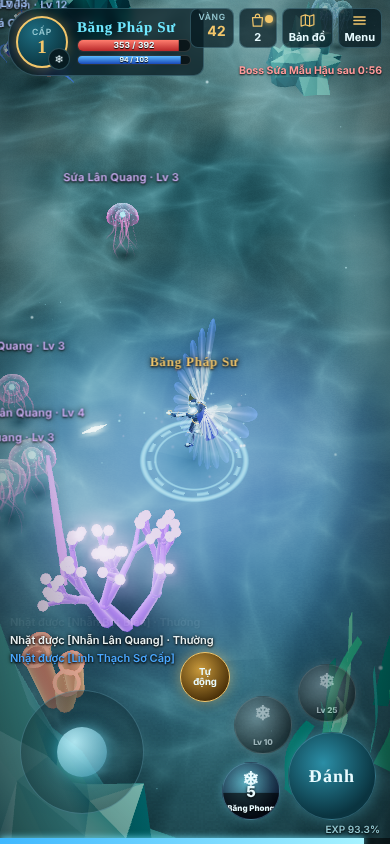
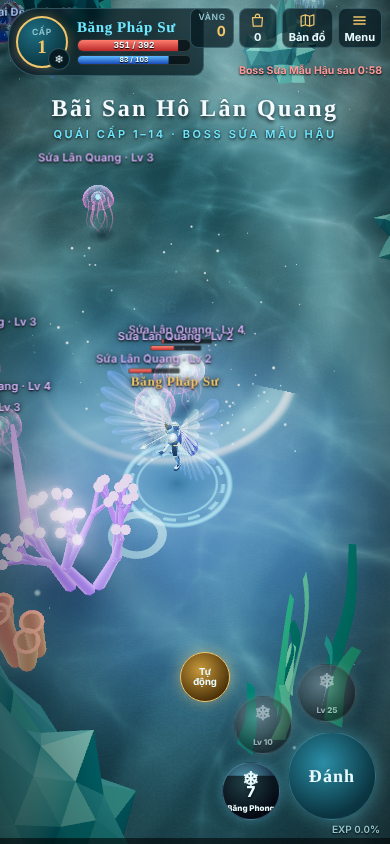
Vực Lam: tap-to-move controls and pathfinding around obstacles
Replaces the joystick with tap/hold-to-move on the sea floor (tap a monster
to attack it) and adds grid A* so the hero walks around rocks and coral
in both manual and auto-hunt modes.

Claude-Session: https://claude.ai/code/session_019JwWWoX9XVnj9TTcGWtfgR

diff --git a/game/demo-day-bien/index.html b/game/demo-day-bien/index.html
@@ -32,7 +32,7 @@ body{background:var(--abyss);color:var(--ink);font-family:var(--ui);overflow:hid
 @keyframes rise{0%{transform:translate(-50%,0) scale(1.35);opacity:1}70%{opacity:1}100%{transform:translate(-50%,-52px) scale(1);opacity:0}}
 
 #hud{position:fixed;inset:0;pointer-events:none}
-#hud button,#joy{pointer-events:auto}
+#hud button{pointer-events:auto}
 button{font-family:var(--ui)}
 button:focus-visible{outline:2px solid var(--cyan);outline-offset:2px}
 .card{position:absolute;top:calc(8px + env(safe-area-inset-top,0px));left:calc(8px + env(safe-area-inset-left,0px));display:flex;gap:9px;align-items:center;padding:7px 12px 7px 7px;background:var(--panel);border:1px solid var(--line);border-radius:30px 10px 10px 30px;backdrop-filter:blur(4px)}
@@ -67,8 +67,6 @@ button:focus-visible{outline:2px solid var(--cyan);outline-offset:2px}
 #banner.show{opacity:1}
 #log{position:absolute;left:calc(10px + env(safe-area-inset-left,0px));bottom:calc(178px + env(safe-area-inset-bottom,0px));width:min(310px,68vw);display:flex;flex-direction:column;gap:3px}
 #log div{font:600 11px/1.35 var(--ui);text-shadow:0 1px 2px #000,0 0 4px #000;transition:opacity .6s}
-#joy{position:absolute;left:calc(20px + env(safe-area-inset-left,0px));bottom:calc(30px + env(safe-area-inset-bottom,0px));width:122px;height:122px;border-radius:50%;background:radial-gradient(circle,rgba(111,231,255,.08),rgba(3,22,28,.5));border:1px solid var(--line);touch-action:none}
-#joyKnob{position:absolute;left:50%;top:50%;width:50px;height:50px;margin:-25px 0 0 -25px;border-radius:50%;background:radial-gradient(circle at 35% 30%,rgba(190,245,255,.9),rgba(60,160,190,.6));box-shadow:0 0 14px rgba(111,231,255,.5)}
 .actions{position:absolute;right:calc(14px + env(safe-area-inset-right,0px));bottom:calc(24px + env(safe-area-inset-bottom,0px));width:212px;height:176px}
 .actions button{position:absolute;border-radius:50%;border:1px solid var(--line);color:var(--ink);font:700 11px var(--ui);cursor:pointer;touch-action:none;display:grid;place-items:center;overflow:hidden;padding:0}
 #bAtk{right:0;bottom:0;width:88px;height:88px;background:radial-gradient(circle at 40% 35%,#2b8ea6,#0a3440 70%);box-shadow:0 0 18px rgba(111,231,255,.35);font:700 18px var(--display);letter-spacing:.06em}
@@ -200,7 +198,6 @@ button:focus-visible{outline:2px solid var(--cyan);outline-offset:2px}
   <div id="zone"><h1 id="zoneName"></h1><p id="zoneSub"></p></div>
   <div id="banner"></div>
   <div id="log"></div>
-  <div id="joy" aria-label="Cần điều khiển di chuyển"><div id="joyKnob"></div></div>
   <div class="actions">
     <button id="bAuto" aria-pressed="true" aria-label="Bật hoặc tắt tự động đánh">Tự<br>động</button>
     <button class="sk" id="sk2"><div class="cd"></div><span class="ic"></span><small></small><span class="cdt"></span></button>
@@ -208,7 +205,7 @@ button:focus-visible{outline:2px solid var(--cyan);outline-offset:2px}
     <button class="sk" id="sk0"><div class="cd"></div><span class="ic"></span><small></small><span class="cdt"></span></button>
     <button id="bAtk" aria-label="Đánh thường">Đánh</button>
   </div>
-  <div class="hint">WASD di chuyển · Space đánh · 1 2 3 kỹ năng · F tự động · I túi đồ · M bản đồ</div>
+  <div class="hint">Chạm/nhấp nền để đi · WASD · Space đánh · 1 2 3 kỹ năng · F tự động · I túi đồ · M bản đồ</div>
   <div class="exp"><i id="expBar"></i><span id="expTxt"></span></div>
 </div>
 
@@ -1193,6 +1190,38 @@ function updateFx(dt) {
 const rockSpots = [[-14, -9, 1.8, 2.6], [14, -12, 2.2, 3.4], [-16, 6, 2.0, 2.2], [16, 4, 1.6, 2.8], [-4, -9, 1.0, 1.4], [5, 2, 0.9, 1.1], [-3, 15, 1.6, 2.4], [11, 16, 2.0, 3.0], [-12, 16, 1.4, 1.8], [2, -6, 0.7, 0.9]];
 const coralSpots = [[-6, -12], [7, -13], [-13, -2], [13, -2], [-11, 12], [12, 11], [-2, 11], [4, 13], [-18, -12], [18, -10], [-6, 3], [8, -1]];
 function collides(x, z, r) { for (const c of colliders) { const dx = x - c.x, dz = z - c.z; if (dx * dx + dz * dz < (c.r + r) ** 2) return true; } return false; }
+// ---------- navigation (grid A* so the hero walks around rocks and coral) ----------
+const NAV = { n: 88, c: 0.5, o: -22, g: null, R: 0.56 };
+function navCell(v) { return clamp(Math.floor((v - NAV.o) / NAV.c), 0, NAV.n - 1); }
+function navX(i) { return NAV.o + (i + 0.5) * NAV.c; }
+function buildNav() { const n = NAV.n; NAV.g = new Uint8Array(n * n);
+  for (let j = 0; j < n; j++) for (let i = 0; i < n; i++) { const x = navX(i), z = navX(j); NAV.g[j * n + i] = Math.hypot(x, z) > 20.8 || collides(x, z, NAV.R) ? 1 : 0; } }
+function navFree(i, j) { return i >= 0 && j >= 0 && i < NAV.n && j < NAV.n && !NAV.g[j * NAV.n + i]; }
+function los(ax, az, bx, bz, r = 0.5) { const d = Math.hypot(bx - ax, bz - az), k = Math.ceil(d / 0.2); for (let s = 1; s <= k; s++) { const f = s / k; if (collides(ax + (bx - ax) * f, az + (bz - az) * f, r)) return false; } return true; }
+function nearestFree(i, j) { if (navFree(i, j)) return [i, j]; for (let r = 1; r < 8; r++) for (let dj = -r; dj <= r; dj++) for (let di = -r; di <= r; di++) if (Math.max(Math.abs(di), Math.abs(dj)) === r && navFree(i + di, j + dj)) return [i + di, j + dj]; return null; }
+function findPath(sx, sz, tx, tz) {
+  if (!NAV.g) return null; const n = NAV.n; const s = nearestFree(navCell(sx), navCell(sz)), t = nearestFree(navCell(tx), navCell(tz)); if (!s || !t) return null;
+  const S0 = s[1] * n + s[0], T0 = t[1] * n + t[0]; const gs = new Float32Array(n * n).fill(1e9), from = new Int32Array(n * n).fill(-1), shut = new Uint8Array(n * n);
+  const heap = [], H = k => { const i = k % n, j = (k / n) | 0, dx = Math.abs(i - t[0]), dz = Math.abs(j - t[1]); return Math.max(dx, dz) + 0.414 * Math.min(dx, dz); };
+  const push = (k, f) => { heap.push([f, k]); let c = heap.length - 1; while (c > 0) { const p = (c - 1) >> 1; if (heap[p][0] <= heap[c][0]) break; [heap[p], heap[c]] = [heap[c], heap[p]]; c = p; } };
+  const pop = () => { const top = heap[0], last = heap.pop(); if (heap.length) { heap[0] = last; let c = 0; for (;;) { const l = 2 * c + 1, r = l + 1; let m = c; if (l < heap.length && heap[l][0] < heap[m][0]) m = l; if (r < heap.length && heap[r][0] < heap[m][0]) m = r; if (m === c) break; [heap[m], heap[c]] = [heap[c], heap[m]]; c = m; } } return top[1]; };
+  gs[S0] = 0; push(S0, H(S0)); let found = false, it = 0;
+  while (heap.length && it++ < 9000) { const k = pop(); if (shut[k]) continue; shut[k] = 1; if (k === T0) { found = true; break; } const i = k % n, j = (k / n) | 0;
+    for (let dj = -1; dj <= 1; dj++) for (let di = -1; di <= 1; di++) { if (!di && !dj) continue; const a = i + di, b = j + dj; if (!navFree(a, b)) continue; if (di && dj && (!navFree(i + di, j) || !navFree(i, j + dj))) continue;
+      const q = b * n + a, g = gs[k] + (di && dj ? 1.414 : 1); if (g < gs[q]) { gs[q] = g; from[q] = k; push(q, g + H(q)); } } }
+  if (!found) return null; const pts = []; for (let k = T0; k !== -1 && k !== S0; k = from[k]) pts.push([navX(k % n), navX((k / n) | 0)]); pts.reverse(); pts.push([tx, tz]);
+  const out = []; let ax = sx, az = sz, i = 0; // string-pull: keep only corners the hero cannot see past
+  while (i < pts.length) { let j = pts.length - 1; while (j > i && !los(ax, az, pts[j][0], pts[j][1], 0.45)) j--; out.push(pts[j]); [ax, az] = pts[j]; i = j + 1; }
+  return out;
+}
+// direction (unit vector) the hero should walk now to reach (tx,tz), going around obstacles
+function navDir(tx, tz) {
+  const px = S.pos.x, pz = S.pos.z;
+  if (los(px, pz, tx, tz)) { S.nav = null; const d = Math.hypot(tx - px, tz - pz) || 1; return [(tx - px) / d, (tz - pz) / d]; }
+  let N = S.nav; if (!N || Math.hypot(N.tx - tx, N.tz - tz) > 1 || S.time - N.t > 1.5) { const pts = findPath(px, pz, tx, tz); N = S.nav = { tx, tz, t: S.time, pts: pts || [[tx, tz]], i: 0, fail: !pts }; }
+  while (N.i < N.pts.length - 1 && (Math.hypot(N.pts[N.i][0] - px, N.pts[N.i][1] - pz) < 0.35 || los(px, pz, N.pts[N.i + 1][0], N.pts[N.i + 1][1]))) N.i++;
+  const [wx, wz] = N.pts[N.i]; const d = Math.hypot(wx - px, wz - pz) || 1; return [(wx - px) / d, (wz - pz) / d];
+}
 function spawnPos(z) { for (let k = 0; k < 20; k++) { const a = rr(0, 6.28), d = Math.sqrt(rand()) * z.r; const x = z.x + Math.cos(a) * d, zz = z.z + Math.sin(a) * d; if (!collides(x, zz, 0.8)) return [x, zz]; } return [z.x, z.z]; }
 function setMap(i) {
   S.map = i; const M = MAPS[i]; PAL = M.pal; seed = 20261119 + i * 977;
@@ -1218,7 +1247,7 @@ function setMap(i) {
   for (const m of mobs) removeMob(m); mobs.length = 0; for (const l of loots) removeLoot(l); loots.length = 0;
   for (const zn of M.zones) for (let n = 0; n < zn.n; n++) { const [x, z] = spawnPos(zn); addMob(zn.k, ri(zn.lv[0], zn.lv[1]), x, z, zn); }
   S.bossT = Math.min(S.bossT ?? 60, 60); S.boss = null;
-  S.pos.set(0, 0, 8);
+  S.pos.set(0, 0, 8); buildNav(); S.nav = null; S.moveTo = null; S.tapMob = null;
 }
 
 // ---------- monsters (template jelly & spiked fish) ----------
@@ -1430,16 +1459,25 @@ function applyGearVisuals() {
 }
 function updateHero(dt, t) {
   if (S.dead > 0) { S.dead -= dt; if (S.dead <= 0) { S.dead = 0; S.pos.set(0, 0, 8); recalc(true); heroG.visible = true; fxBeam(0, 8, '#9fe8ff', 1.2); } return; }
-  let mx = input.x, mz = input.z;
+  let mx = 0, mz = 0;
   if (input.keys.KeyW || input.keys.ArrowUp) mz -= 1; if (input.keys.KeyS || input.keys.ArrowDown) mz += 1; if (input.keys.KeyA || input.keys.ArrowLeft) mx -= 1; if (input.keys.KeyD || input.keys.ArrowRight) mx += 1;
-  let mag = Math.hypot(mx, mz); const manual = mag > 0.12; const Cl = CLS[S.cls];
-  if (!manual && S.auto) {
-    let target = null, best = 1e9;
-    for (const l of loots) { const d = Math.hypot(l.x - S.pos.x, l.z - S.pos.z); if (d < 9 && d < best) { best = d; target = { x: l.x, z: l.z, loot: true }; } }
-    if (!target) for (const m of mobs) { if (m.dead) continue; if (m.boss && HS.hp < m.atk * 6) continue; if (!m.aggro && m.lv > S.lv + 4) continue; const d = Math.hypot(m.x - S.pos.x, m.z - S.pos.z) - (m.aggro ? 3 : 0); if (d < best) { best = d; target = m; } }
-    if (target) { const dx = target.x - S.pos.x, dz = target.z - S.pos.z, d = Math.hypot(dx, dz); const want = target.loot ? 0.3 : (Cl.melee ? Cl.range - 0.3 + (target.boss ? 0.8 : 0) : Cl.range - 1);
-      if (d > want) { mx = dx / d; mz = dz / d; mag = 1; } else if (!target.loot) { S.face = Math.atan2(dx, dz); const crowd = mobsNear(target.x, target.z, 2.6).filter(o => o.lv <= S.lv + 4 || o.aggro).length;
-        if (crowd >= 2 || target.boss || target.maxHp > HS.atk * 6) { for (let j = 2; j >= 0; j--) if (castSkill(j, target)) break; } attack(target); } }
+  let mag = Math.hypot(mx, mz); const keys = mag > 0.12; const Cl = CLS[S.cls];
+  if (keys) { S.moveTo = null; S.tapMob = null; S.nav = null; }
+  if (S.tapMob && (S.tapMob.dead || !mobs.includes(S.tapMob))) S.tapMob = null;
+  if (!keys && S.moveTo) { // touch / click: walk to the touched point
+    const d = Math.hypot(S.moveTo.x - S.pos.x, S.moveTo.z - S.pos.z);
+    if (d > 0.25) { [mx, mz] = navDir(S.moveTo.x, S.moveTo.z); mag = 1; if (!S.moveTo.hold && S.nav && S.nav.fail && S.time - S.moveTo.t > 4) S.moveTo = null; }
+    else if (!S.moveTo.hold) S.moveTo = null;
+  } else if (!keys && (S.auto || S.tapMob)) {
+    let target = S.tapMob, best = 1e9;
+    if (!target) for (const l of loots) { const d = Math.hypot(l.x - S.pos.x, l.z - S.pos.z); if (d < 9 && d < best && !(l.noReach > S.time)) { best = d; target = l; } }
+    if (!target) for (const m of mobs) { if (m.dead || m.noReach > S.time) continue; if (m.boss && HS.hp < m.atk * 6) continue; if (!m.aggro && m.lv > S.lv + 4) continue; const d = Math.hypot(m.x - S.pos.x, m.z - S.pos.z) - (m.aggro ? 3 : 0); if (d < best) { best = d; target = m; } }
+    if (target) { const isLoot = !target.T; const dx = target.x - S.pos.x, dz = target.z - S.pos.z, d = Math.hypot(dx, dz); const want = isLoot ? 0.3 : (Cl.melee ? Cl.range - 0.3 + (target.boss ? 0.8 : 0) : Cl.range - 1);
+      const sees = isLoot || Cl.melee || los(S.pos.x, S.pos.z, target.x, target.z, 0.15);
+      if (d > want || !sees) { [mx, mz] = navDir(target.x, target.z); mag = 1;
+        if (S.nav && S.nav.fail && target !== S.tapMob) { target.noReach = S.time + 6; S.nav = null; } }
+      else if (!isLoot) { S.face = Math.atan2(dx, dz); const crowd = mobsNear(target.x, target.z, 2.6).filter(o => o.lv <= S.lv + 4 || o.aggro).length;
+        if (S.auto && (crowd >= 2 || target.boss || target.maxHp > HS.atk * 6)) { for (let j = 2; j >= 0; j--) if (castSkill(j, target)) break; } attack(target); } }
   }
   if (mag > 0.12 && S.castT <= 0) { const sp = Math.min(mag, 1) * (4.6 + S.wing * 0.3); const nx = S.pos.x + mx / Math.max(mag, 1) * sp * dt, nz = S.pos.z + mz / Math.max(mag, 1) * sp * dt;
     if (!collides(nx, S.pos.z, 0.5)) S.pos.x = nx; if (!collides(S.pos.x, nz, 0.5)) S.pos.z = nz; const r = Math.hypot(S.pos.x, S.pos.z); if (r > 21) { S.pos.x *= 21 / r; S.pos.z *= 21 / r; }
@@ -1554,12 +1592,24 @@ addEventListener('keydown', e => { if (!S || !running) return; input.keys[e.code
   if (e.code === 'Space') { e.preventDefault(); attack(); } if (e.code === 'Digit1') castSkill(0); if (e.code === 'Digit2') castSkill(1); if (e.code === 'Digit3') castSkill(2);
   if (e.code === 'KeyF') { S.auto = !S.auto; updateHud(); } if (e.code === 'KeyI') openBag(); if (e.code === 'KeyM') openMap(); });
 addEventListener('keyup', e => { input.keys[e.code] = false; });
-const joy = $('joy'), knob = $('joyKnob'); let joyId = null;
-function joyMove(e) { const r = joy.getBoundingClientRect(); const cx = r.left + r.width / 2, cy = r.top + r.height / 2; let dx = e.clientX - cx, dy = e.clientY - cy; const m = Math.hypot(dx, dy), max = r.width / 2 - 10; if (m > max) { dx *= max / m; dy *= max / m; } knob.style.transform = `translate(${dx}px,${dy}px)`; input.x = dx / max; input.z = dy / max; }
-joy.addEventListener('pointerdown', e => { joyId = e.pointerId; joy.setPointerCapture(e.pointerId); joyMove(e); });
-joy.addEventListener('pointermove', e => { if (e.pointerId === joyId) joyMove(e); });
-const joyEnd = e => { if (e.pointerId !== joyId) return; joyId = null; input.x = input.z = 0; knob.style.transform = ''; };
-joy.addEventListener('pointerup', joyEnd); joy.addEventListener('pointercancel', joyEnd);
+// touch / click to move: tap the sea floor to walk there, hold and drag to steer, tap a monster to attack it
+const cvs = renderer.domElement; cvs.style.touchAction = 'none';
+const ray = new THREE.Raycaster(), ndc = new THREE.Vector2(), floor = new THREE.Plane(new THREE.Vector3(0, 1, 0), 0), hitP = new THREE.Vector3();
+const markMat = new THREE.MeshBasicMaterial({ color: 0x9fe8ff, transparent: true, opacity: 0, blending: THREE.AdditiveBlending, depthWrite: false, side: THREE.DoubleSide });
+const marker = new THREE.Mesh(new THREE.RingGeometry(0.28, 0.4, 40), markMat); marker.rotation.x = -Math.PI / 2; scene.add(marker); let markT = 0;
+function floorAt(cx, cy) { ndc.set(cx / innerWidth * 2 - 1, -(cy / innerHeight) * 2 + 1); ray.setFromCamera(ndc, camera); return ray.ray.intersectPlane(floor, hitP) ? hitP : null; }
+function mobAt(cx, cy) { let b = null, bd = 46; for (const m of mobs) { if (m.dead) continue; const [sx, sy, ok] = toScreen(tmpV.set(m.x, mobH(m), m.z)); const d = Math.hypot(sx - cx, sy - cy) - (m.boss ? 30 : 0); if (ok && d < bd) { bd = d; b = m; } } return b; }
+function showMark(x, z, hex) { marker.position.set(x, 0.06, z); markMat.color.setHex(hex); markT = 0.6; }
+let touchId = null, touchX = 0, touchY = 0;
+function touchMove(cx, cy, hold) { const p = floorAt(cx, cy); if (!p) return; const r = Math.hypot(p.x, p.z); if (r > 20.5) p.multiplyScalar(20.5 / r); S.moveTo = { x: p.x, z: p.z, hold, t: S.time }; S.tapMob = null; showMark(p.x, p.z, 0x9fe8ff); }
+cvs.addEventListener('pointerdown', e => { if (!S || !running || paused || S.dead) return; e.preventDefault(); touchId = e.pointerId; touchX = e.clientX; touchY = e.clientY; cvs.setPointerCapture(e.pointerId);
+  const m = mobAt(e.clientX, e.clientY); if (m) { S.tapMob = m; S.moveTo = null; S.nav = null; showMark(m.x, m.z, 0xff7a7a); touchId = null; return; }
+  touchMove(e.clientX, e.clientY, true); });
+cvs.addEventListener('pointermove', e => { if (e.pointerId !== touchId || !S) return; touchX = e.clientX; touchY = e.clientY; });
+const touchEnd = e => { if (e.pointerId !== touchId) return; touchId = null; if (S && S.moveTo) S.moveTo.hold = false; };
+cvs.addEventListener('pointerup', touchEnd); cvs.addEventListener('pointercancel', touchEnd);
+function updateTouch(dt) { if (touchId !== null && S && !S.dead) touchMove(touchX, touchY, true);
+  if (markT > 0) { markT -= dt; markMat.opacity = Math.max(0, markT / 0.6) * 0.9; marker.scale.setScalar(1 + (0.6 - markT) * 0.8); if (S && S.tapMob && !S.tapMob.dead) marker.position.set(S.tapMob.x, 0.06, S.tapMob.z); } else markMat.opacity = 0; }
 
 // ---------- icons ----------
 const GI = {
@@ -1703,7 +1753,7 @@ $('classGo').onclick = () => { if (!pickCls) return; S = newState(pickCls);
 function startRun(fresh) {
   $('startOv').classList.add('hide'); $('classOv').classList.add('hide'); $('menuOv').classList.add('hide'); $('hud').classList.remove('hide');
   recalc(true); running = true; buildHero3D(); setMap(S.map); recalc(true); showZone(); updateHud(); fitCam = true;
-  if (fresh) log('Chào mừng đến Vực Lam! Tự động đánh đang bật. Mở túi đồ để khảm linh thạch và chế cánh.', '#9fe8ff');
+  if (fresh) log('Chào mừng đến Vực Lam! Chạm vào nền để di chuyển, chạm vào quái để đánh. Tự động đánh đang bật. Mở túi đồ để khảm linh thạch và chế cánh.', '#9fe8ff');
   saveGame();
 }
 function openMenu() { $('menuOv').classList.remove('hide'); paused = true; $('menuInfo').innerHTML = `${CLS[S.cls].name} · Cấp <b>${S.lv}</b> · ${MAPS[S.map].name}`; $('mMsg').textContent = ''; $('mResume').focus(); }
@@ -1726,7 +1776,7 @@ const clock = new THREE.Clock(); let hudT = 0, saveT = 0, fpsAcc = 0, fpsN = 0, 
 function frame() {
   const dt = Math.min(clock.getDelta(), 0.05), t = clock.elapsedTime; U.uTime.value = t;
   if (running && !paused) {
-    S.time += dt; updateHero(dt, t); updateMobs(dt, t); updateLoot(dt, t); updateProjs(dt); updSkills(dt);
+    S.time += dt; updateTouch(dt); updateHero(dt, t); updateMobs(dt, t); updateLoot(dt, t); updateProjs(dt); updSkills(dt);
     hudT -= dt; if (hudT <= 0) { hudT = 0.2; updateHud(); if (!bagEl.classList.contains('hide') && tab !== 'gear') { } }
     saveT += dt; if (saveT > 20) { saveT = 0; saveGame(); }
     if (zoneT > 0) { zoneT -= dt; if (zoneT <= 0) $('zone').style.opacity = 0; }

diff --git a/game/demo-day-bien/src/g_game.js b/game/demo-day-bien/src/g_game.js
@@ -65,6 +65,38 @@ function updateFx(dt) {
 const rockSpots = [[-14, -9, 1.8, 2.6], [14, -12, 2.2, 3.4], [-16, 6, 2.0, 2.2], [16, 4, 1.6, 2.8], [-4, -9, 1.0, 1.4], [5, 2, 0.9, 1.1], [-3, 15, 1.6, 2.4], [11, 16, 2.0, 3.0], [-12, 16, 1.4, 1.8], [2, -6, 0.7, 0.9]];
 const coralSpots = [[-6, -12], [7, -13], [-13, -2], [13, -2], [-11, 12], [12, 11], [-2, 11], [4, 13], [-18, -12], [18, -10], [-6, 3], [8, -1]];
 function collides(x, z, r) { for (const c of colliders) { const dx = x - c.x, dz = z - c.z; if (dx * dx + dz * dz < (c.r + r) ** 2) return true; } return false; }
+// ---------- navigation (grid A* so the hero walks around rocks and coral) ----------
+const NAV = { n: 88, c: 0.5, o: -22, g: null, R: 0.56 };
+function navCell(v) { return clamp(Math.floor((v - NAV.o) / NAV.c), 0, NAV.n - 1); }
+function navX(i) { return NAV.o + (i + 0.5) * NAV.c; }
+function buildNav() { const n = NAV.n; NAV.g = new Uint8Array(n * n);
+  for (let j = 0; j < n; j++) for (let i = 0; i < n; i++) { const x = navX(i), z = navX(j); NAV.g[j * n + i] = Math.hypot(x, z) > 20.8 || collides(x, z, NAV.R) ? 1 : 0; } }
+function navFree(i, j) { return i >= 0 && j >= 0 && i < NAV.n && j < NAV.n && !NAV.g[j * NAV.n + i]; }
+function los(ax, az, bx, bz, r = 0.5) { const d = Math.hypot(bx - ax, bz - az), k = Math.ceil(d / 0.2); for (let s = 1; s <= k; s++) { const f = s / k; if (collides(ax + (bx - ax) * f, az + (bz - az) * f, r)) return false; } return true; }
+function nearestFree(i, j) { if (navFree(i, j)) return [i, j]; for (let r = 1; r < 8; r++) for (let dj = -r; dj <= r; dj++) for (let di = -r; di <= r; di++) if (Math.max(Math.abs(di), Math.abs(dj)) === r && navFree(i + di, j + dj)) return [i + di, j + dj]; return null; }
+function findPath(sx, sz, tx, tz) {
+  if (!NAV.g) return null; const n = NAV.n; const s = nearestFree(navCell(sx), navCell(sz)), t = nearestFree(navCell(tx), navCell(tz)); if (!s || !t) return null;
+  const S0 = s[1] * n + s[0], T0 = t[1] * n + t[0]; const gs = new Float32Array(n * n).fill(1e9), from = new Int32Array(n * n).fill(-1), shut = new Uint8Array(n * n);
+  const heap = [], H = k => { const i = k % n, j = (k / n) | 0, dx = Math.abs(i - t[0]), dz = Math.abs(j - t[1]); return Math.max(dx, dz) + 0.414 * Math.min(dx, dz); };
+  const push = (k, f) => { heap.push([f, k]); let c = heap.length - 1; while (c > 0) { const p = (c - 1) >> 1; if (heap[p][0] <= heap[c][0]) break; [heap[p], heap[c]] = [heap[c], heap[p]]; c = p; } };
+  const pop = () => { const top = heap[0], last = heap.pop(); if (heap.length) { heap[0] = last; let c = 0; for (;;) { const l = 2 * c + 1, r = l + 1; let m = c; if (l < heap.length && heap[l][0] < heap[m][0]) m = l; if (r < heap.length && heap[r][0] < heap[m][0]) m = r; if (m === c) break; [heap[m], heap[c]] = [heap[c], heap[m]]; c = m; } } return top[1]; };
+  gs[S0] = 0; push(S0, H(S0)); let found = false, it = 0;
+  while (heap.length && it++ < 9000) { const k = pop(); if (shut[k]) continue; shut[k] = 1; if (k === T0) { found = true; break; } const i = k % n, j = (k / n) | 0;
+    for (let dj = -1; dj <= 1; dj++) for (let di = -1; di <= 1; di++) { if (!di && !dj) continue; const a = i + di, b = j + dj; if (!navFree(a, b)) continue; if (di && dj && (!navFree(i + di, j) || !navFree(i, j + dj))) continue;
+      const q = b * n + a, g = gs[k] + (di && dj ? 1.414 : 1); if (g < gs[q]) { gs[q] = g; from[q] = k; push(q, g + H(q)); } } }
+  if (!found) return null; const pts = []; for (let k = T0; k !== -1 && k !== S0; k = from[k]) pts.push([navX(k % n), navX((k / n) | 0)]); pts.reverse(); pts.push([tx, tz]);
+  const out = []; let ax = sx, az = sz, i = 0; // string-pull: keep only corners the hero cannot see past
+  while (i < pts.length) { let j = pts.length - 1; while (j > i && !los(ax, az, pts[j][0], pts[j][1], 0.45)) j--; out.push(pts[j]); [ax, az] = pts[j]; i = j + 1; }
+  return out;
+}
+// direction (unit vector) the hero should walk now to reach (tx,tz), going around obstacles
+function navDir(tx, tz) {
+  const px = S.pos.x, pz = S.pos.z;
+  if (los(px, pz, tx, tz)) { S.nav = null; const d = Math.hypot(tx - px, tz - pz) || 1; return [(tx - px) / d, (tz - pz) / d]; }
+  let N = S.nav; if (!N || Math.hypot(N.tx - tx, N.tz - tz) > 1 || S.time - N.t > 1.5) { const pts = findPath(px, pz, tx, tz); N = S.nav = { tx, tz, t: S.time, pts: pts || [[tx, tz]], i: 0, fail: !pts }; }
+  while (N.i < N.pts.length - 1 && (Math.hypot(N.pts[N.i][0] - px, N.pts[N.i][1] - pz) < 0.35 || los(px, pz, N.pts[N.i + 1][0], N.pts[N.i + 1][1]))) N.i++;
+  const [wx, wz] = N.pts[N.i]; const d = Math.hypot(wx - px, wz - pz) || 1; return [(wx - px) / d, (wz - pz) / d];
+}
 function spawnPos(z) { for (let k = 0; k < 20; k++) { const a = rr(0, 6.28), d = Math.sqrt(rand()) * z.r; const x = z.x + Math.cos(a) * d, zz = z.z + Math.sin(a) * d; if (!collides(x, zz, 0.8)) return [x, zz]; } return [z.x, z.z]; }
 function setMap(i) {
   S.map = i; const M = MAPS[i]; PAL = M.pal; seed = 20261119 + i * 977;
@@ -90,7 +122,7 @@ function setMap(i) {
   for (const m of mobs) removeMob(m); mobs.length = 0; for (const l of loots) removeLoot(l); loots.length = 0;
   for (const zn of M.zones) for (let n = 0; n < zn.n; n++) { const [x, z] = spawnPos(zn); addMob(zn.k, ri(zn.lv[0], zn.lv[1]), x, z, zn); }
   S.bossT = Math.min(S.bossT ?? 60, 60); S.boss = null;
-  S.pos.set(0, 0, 8);
+  S.pos.set(0, 0, 8); buildNav(); S.nav = null; S.moveTo = null; S.tapMob = null;
 }
 
 // ---------- monsters (template jelly & spiked fish) ----------
@@ -302,16 +334,25 @@ function applyGearVisuals() {
 }
 function updateHero(dt, t) {
   if (S.dead > 0) { S.dead -= dt; if (S.dead <= 0) { S.dead = 0; S.pos.set(0, 0, 8); recalc(true); heroG.visible = true; fxBeam(0, 8, '#9fe8ff', 1.2); } return; }
-  let mx = input.x, mz = input.z;
+  let mx = 0, mz = 0;
   if (input.keys.KeyW || input.keys.ArrowUp) mz -= 1; if (input.keys.KeyS || input.keys.ArrowDown) mz += 1; if (input.keys.KeyA || input.keys.ArrowLeft) mx -= 1; if (input.keys.KeyD || input.keys.ArrowRight) mx += 1;
-  let mag = Math.hypot(mx, mz); const manual = mag > 0.12; const Cl = CLS[S.cls];
-  if (!manual && S.auto) {
-    let target = null, best = 1e9;
-    for (const l of loots) { const d = Math.hypot(l.x - S.pos.x, l.z - S.pos.z); if (d < 9 && d < best) { best = d; target = { x: l.x, z: l.z, loot: true }; } }
-    if (!target) for (const m of mobs) { if (m.dead) continue; if (m.boss && HS.hp < m.atk * 6) continue; if (!m.aggro && m.lv > S.lv + 4) continue; const d = Math.hypot(m.x - S.pos.x, m.z - S.pos.z) - (m.aggro ? 3 : 0); if (d < best) { best = d; target = m; } }
-    if (target) { const dx = target.x - S.pos.x, dz = target.z - S.pos.z, d = Math.hypot(dx, dz); const want = target.loot ? 0.3 : (Cl.melee ? Cl.range - 0.3 + (target.boss ? 0.8 : 0) : Cl.range - 1);
-      if (d > want) { mx = dx / d; mz = dz / d; mag = 1; } else if (!target.loot) { S.face = Math.atan2(dx, dz); const crowd = mobsNear(target.x, target.z, 2.6).filter(o => o.lv <= S.lv + 4 || o.aggro).length;
-        if (crowd >= 2 || target.boss || target.maxHp > HS.atk * 6) { for (let j = 2; j >= 0; j--) if (castSkill(j, target)) break; } attack(target); } }
+  let mag = Math.hypot(mx, mz); const keys = mag > 0.12; const Cl = CLS[S.cls];
+  if (keys) { S.moveTo = null; S.tapMob = null; S.nav = null; }
+  if (S.tapMob && (S.tapMob.dead || !mobs.includes(S.tapMob))) S.tapMob = null;
+  if (!keys && S.moveTo) { // touch / click: walk to the touched point
+    const d = Math.hypot(S.moveTo.x - S.pos.x, S.moveTo.z - S.pos.z);
+    if (d > 0.25) { [mx, mz] = navDir(S.moveTo.x, S.moveTo.z); mag = 1; if (!S.moveTo.hold && S.nav && S.nav.fail && S.time - S.moveTo.t > 4) S.moveTo = null; }
+    else if (!S.moveTo.hold) S.moveTo = null;
+  } else if (!keys && (S.auto || S.tapMob)) {
+    let target = S.tapMob, best = 1e9;
+    if (!target) for (const l of loots) { const d = Math.hypot(l.x - S.pos.x, l.z - S.pos.z); if (d < 9 && d < best && !(l.noReach > S.time)) { best = d; target = l; } }
+    if (!target) for (const m of mobs) { if (m.dead || m.noReach > S.time) continue; if (m.boss && HS.hp < m.atk * 6) continue; if (!m.aggro && m.lv > S.lv + 4) continue; const d = Math.hypot(m.x - S.pos.x, m.z - S.pos.z) - (m.aggro ? 3 : 0); if (d < best) { best = d; target = m; } }
+    if (target) { const isLoot = !target.T; const dx = target.x - S.pos.x, dz = target.z - S.pos.z, d = Math.hypot(dx, dz); const want = isLoot ? 0.3 : (Cl.melee ? Cl.range - 0.3 + (target.boss ? 0.8 : 0) : Cl.range - 1);
+      const sees = isLoot || Cl.melee || los(S.pos.x, S.pos.z, target.x, target.z, 0.15);
+      if (d > want || !sees) { [mx, mz] = navDir(target.x, target.z); mag = 1;
+        if (S.nav && S.nav.fail && target !== S.tapMob) { target.noReach = S.time + 6; S.nav = null; } }
+      else if (!isLoot) { S.face = Math.atan2(dx, dz); const crowd = mobsNear(target.x, target.z, 2.6).filter(o => o.lv <= S.lv + 4 || o.aggro).length;
+        if (S.auto && (crowd >= 2 || target.boss || target.maxHp > HS.atk * 6)) { for (let j = 2; j >= 0; j--) if (castSkill(j, target)) break; } attack(target); } }
   }
   if (mag > 0.12 && S.castT <= 0) { const sp = Math.min(mag, 1) * (4.6 + S.wing * 0.3); const nx = S.pos.x + mx / Math.max(mag, 1) * sp * dt, nz = S.pos.z + mz / Math.max(mag, 1) * sp * dt;
     if (!collides(nx, S.pos.z, 0.5)) S.pos.x = nx; if (!collides(S.pos.x, nz, 0.5)) S.pos.z = nz; const r = Math.hypot(S.pos.x, S.pos.z); if (r > 21) { S.pos.x *= 21 / r; S.pos.z *= 21 / r; }

diff --git a/game/demo-day-bien/src/h_ui.js b/game/demo-day-bien/src/h_ui.js
@@ -46,12 +46,24 @@ addEventListener('keydown', e => { if (!S || !running) return; input.keys[e.code
   if (e.code === 'Space') { e.preventDefault(); attack(); } if (e.code === 'Digit1') castSkill(0); if (e.code === 'Digit2') castSkill(1); if (e.code === 'Digit3') castSkill(2);
   if (e.code === 'KeyF') { S.auto = !S.auto; updateHud(); } if (e.code === 'KeyI') openBag(); if (e.code === 'KeyM') openMap(); });
 addEventListener('keyup', e => { input.keys[e.code] = false; });
-const joy = $('joy'), knob = $('joyKnob'); let joyId = null;
-function joyMove(e) { const r = joy.getBoundingClientRect(); const cx = r.left + r.width / 2, cy = r.top + r.height / 2; let dx = e.clientX - cx, dy = e.clientY - cy; const m = Math.hypot(dx, dy), max = r.width / 2 - 10; if (m > max) { dx *= max / m; dy *= max / m; } knob.style.transform = `translate(${dx}px,${dy}px)`; input.x = dx / max; input.z = dy / max; }
-joy.addEventListener('pointerdown', e => { joyId = e.pointerId; joy.setPointerCapture(e.pointerId); joyMove(e); });
-joy.addEventListener('pointermove', e => { if (e.pointerId === joyId) joyMove(e); });
-const joyEnd = e => { if (e.pointerId !== joyId) return; joyId = null; input.x = input.z = 0; knob.style.transform = ''; };
-joy.addEventListener('pointerup', joyEnd); joy.addEventListener('pointercancel', joyEnd);
+// touch / click to move: tap the sea floor to walk there, hold and drag to steer, tap a monster to attack it
+const cvs = renderer.domElement; cvs.style.touchAction = 'none';
+const ray = new THREE.Raycaster(), ndc = new THREE.Vector2(), floor = new THREE.Plane(new THREE.Vector3(0, 1, 0), 0), hitP = new THREE.Vector3();
+const markMat = new THREE.MeshBasicMaterial({ color: 0x9fe8ff, transparent: true, opacity: 0, blending: THREE.AdditiveBlending, depthWrite: false, side: THREE.DoubleSide });
+const marker = new THREE.Mesh(new THREE.RingGeometry(0.28, 0.4, 40), markMat); marker.rotation.x = -Math.PI / 2; scene.add(marker); let markT = 0;
+function floorAt(cx, cy) { ndc.set(cx / innerWidth * 2 - 1, -(cy / innerHeight) * 2 + 1); ray.setFromCamera(ndc, camera); return ray.ray.intersectPlane(floor, hitP) ? hitP : null; }
+function mobAt(cx, cy) { let b = null, bd = 46; for (const m of mobs) { if (m.dead) continue; const [sx, sy, ok] = toScreen(tmpV.set(m.x, mobH(m), m.z)); const d = Math.hypot(sx - cx, sy - cy) - (m.boss ? 30 : 0); if (ok && d < bd) { bd = d; b = m; } } return b; }
+function showMark(x, z, hex) { marker.position.set(x, 0.06, z); markMat.color.setHex(hex); markT = 0.6; }
+let touchId = null, touchX = 0, touchY = 0;
+function touchMove(cx, cy, hold) { const p = floorAt(cx, cy); if (!p) return; const r = Math.hypot(p.x, p.z); if (r > 20.5) p.multiplyScalar(20.5 / r); S.moveTo = { x: p.x, z: p.z, hold, t: S.time }; S.tapMob = null; showMark(p.x, p.z, 0x9fe8ff); }
+cvs.addEventListener('pointerdown', e => { if (!S || !running || paused || S.dead) return; e.preventDefault(); touchId = e.pointerId; touchX = e.clientX; touchY = e.clientY; cvs.setPointerCapture(e.pointerId);
+  const m = mobAt(e.clientX, e.clientY); if (m) { S.tapMob = m; S.moveTo = null; S.nav = null; showMark(m.x, m.z, 0xff7a7a); touchId = null; return; }
+  touchMove(e.clientX, e.clientY, true); });
+cvs.addEventListener('pointermove', e => { if (e.pointerId !== touchId || !S) return; touchX = e.clientX; touchY = e.clientY; });
+const touchEnd = e => { if (e.pointerId !== touchId) return; touchId = null; if (S && S.moveTo) S.moveTo.hold = false; };
+cvs.addEventListener('pointerup', touchEnd); cvs.addEventListener('pointercancel', touchEnd);
+function updateTouch(dt) { if (touchId !== null && S && !S.dead) touchMove(touchX, touchY, true);
+  if (markT > 0) { markT -= dt; markMat.opacity = Math.max(0, markT / 0.6) * 0.9; marker.scale.setScalar(1 + (0.6 - markT) * 0.8); if (S && S.tapMob && !S.tapMob.dead) marker.position.set(S.tapMob.x, 0.06, S.tapMob.z); } else markMat.opacity = 0; }
 
 // ---------- icons ----------
 const GI = {
@@ -195,7 +207,7 @@ $('classGo').onclick = () => { if (!pickCls) return; S = newState(pickCls);
 function startRun(fresh) {
   $('startOv').classList.add('hide'); $('classOv').classList.add('hide'); $('menuOv').classList.add('hide'); $('hud').classList.remove('hide');
   recalc(true); running = true; buildHero3D(); setMap(S.map); recalc(true); showZone(); updateHud(); fitCam = true;
-  if (fresh) log('Chào mừng đến Vực Lam! Tự động đánh đang bật. Mở túi đồ để khảm linh thạch và chế cánh.', '#9fe8ff');
+  if (fresh) log('Chào mừng đến Vực Lam! Chạm vào nền để di chuyển, chạm vào quái để đánh. Tự động đánh đang bật. Mở túi đồ để khảm linh thạch và chế cánh.', '#9fe8ff');
   saveGame();
 }
 function openMenu() { $('menuOv').classList.remove('hide'); paused = true; $('menuInfo').innerHTML = `${CLS[S.cls].name} · Cấp <b>${S.lv}</b> · ${MAPS[S.map].name}`; $('mMsg').textContent = ''; $('mResume').focus(); }
@@ -218,7 +230,7 @@ const clock = new THREE.Clock(); let hudT = 0, saveT = 0, fpsAcc = 0, fpsN = 0, 
 function frame() {
   const dt = Math.min(clock.getDelta(), 0.05), t = clock.elapsedTime; U.uTime.value = t;
   if (running && !paused) {
-    S.time += dt; updateHero(dt, t); updateMobs(dt, t); updateLoot(dt, t); updateProjs(dt); updSkills(dt);
+    S.time += dt; updateTouch(dt); updateHero(dt, t); updateMobs(dt, t); updateLoot(dt, t); updateProjs(dt); updSkills(dt);
     hudT -= dt; if (hudT <= 0) { hudT = 0.2; updateHud(); if (!bagEl.classList.contains('hide') && tab !== 'gear') { } }
     saveT += dt; if (saveT > 20) { saveT = 0; saveGame(); }
     if (zoneT > 0) { zoneT -= dt; if (zoneT <= 0) $('zone').style.opacity = 0; }

diff --git a/game/demo-day-bien/src/a_head.html b/game/demo-day-bien/src/a_head.html
@@ -32,7 +32,7 @@ body{background:var(--abyss);color:var(--ink);font-family:var(--ui);overflow:hid
 @keyframes rise{0%{transform:translate(-50%,0) scale(1.35);opacity:1}70%{opacity:1}100%{transform:translate(-50%,-52px) scale(1);opacity:0}}
 
 #hud{position:fixed;inset:0;pointer-events:none}
-#hud button,#joy{pointer-events:auto}
+#hud button{pointer-events:auto}
 button{font-family:var(--ui)}
 button:focus-visible{outline:2px solid var(--cyan);outline-offset:2px}
 .card{position:absolute;top:calc(8px + env(safe-area-inset-top,0px));left:calc(8px + env(safe-area-inset-left,0px));display:flex;gap:9px;align-items:center;padding:7px 12px 7px 7px;background:var(--panel);border:1px solid var(--line);border-radius:30px 10px 10px 30px;backdrop-filter:blur(4px)}
@@ -67,8 +67,6 @@ button:focus-visible{outline:2px solid var(--cyan);outline-offset:2px}
 #banner.show{opacity:1}
 #log{position:absolute;left:calc(10px + env(safe-area-inset-left,0px));bottom:calc(178px + env(safe-area-inset-bottom,0px));width:min(310px,68vw);display:flex;flex-direction:column;gap:3px}
 #log div{font:600 11px/1.35 var(--ui);text-shadow:0 1px 2px #000,0 0 4px #000;transition:opacity .6s}
-#joy{position:absolute;left:calc(20px + env(safe-area-inset-left,0px));bottom:calc(30px + env(safe-area-inset-bottom,0px));width:122px;height:122px;border-radius:50%;background:radial-gradient(circle,rgba(111,231,255,.08),rgba(3,22,28,.5));border:1px solid var(--line);touch-action:none}
-#joyKnob{position:absolute;left:50%;top:50%;width:50px;height:50px;margin:-25px 0 0 -25px;border-radius:50%;background:radial-gradient(circle at 35% 30%,rgba(190,245,255,.9),rgba(60,160,190,.6));box-shadow:0 0 14px rgba(111,231,255,.5)}
 .actions{position:absolute;right:calc(14px + env(safe-area-inset-right,0px));bottom:calc(24px + env(safe-area-inset-bottom,0px));width:212px;height:176px}
 .actions button{position:absolute;border-radius:50%;border:1px solid var(--line);color:var(--ink);font:700 11px var(--ui);cursor:pointer;touch-action:none;display:grid;place-items:center;overflow:hidden;padding:0}
 #bAtk{right:0;bottom:0;width:88px;height:88px;background:radial-gradient(circle at 40% 35%,#2b8ea6,#0a3440 70%);box-shadow:0 0 18px rgba(111,231,255,.35);font:700 18px var(--display);letter-spacing:.06em}

diff --git a/game/demo-day-bien/src/b_body.html b/game/demo-day-bien/src/b_body.html
@@ -22,7 +22,6 @@
   <div id="zone"><h1 id="zoneName"></h1><p id="zoneSub"></p></div>
   <div id="banner"></div>
   <div id="log"></div>
-  <div id="joy" aria-label="Cần điều khiển di chuyển"><div id="joyKnob"></div></div>
   <div class="actions">
     <button id="bAuto" aria-pressed="true" aria-label="Bật hoặc tắt tự động đánh">Tự<br>động</button>
     <button class="sk" id="sk2"><div class="cd"></div><span class="ic"></span><small></small><span class="cdt"></span></button>
@@ -30,7 +29,7 @@
     <button class="sk" id="sk0"><div class="cd"></div><span class="ic"></span><small></small><span class="cdt"></span></button>
     <button id="bAtk" aria-label="Đánh thường">Đánh</button>
   </div>
-  <div class="hint">WASD di chuyển · Space đánh · 1 2 3 kỹ năng · F tự động · I túi đồ · M bản đồ</div>
+  <div class="hint">Chạm/nhấp nền để đi · WASD · Space đánh · 1 2 3 kỹ năng · F tự động · I túi đồ · M bản đồ</div>
   <div class="exp"><i id="expBar"></i><span id="expTxt"></span></div>
 </div>
 

diff --git a/claude/handoff-nghien-cuu-ban-dau.md b/claude/handoff-nghien-cuu-ban-dau.md
@@ -261,3 +261,6 @@ hệ thống kỹ năng nguyên tố, tầng sát thương, lưu đám mây.
 - Thay đổi gameplay hình ảnh: luôn có cánh (Cánh Sơ Khai) để bay lơ lửng như template; vàng/nguyên liệu/đồ rơi xuống đất, đi qua để nhặt.
 - Nguồn: `game/demo-day-bien/src/` (ghép `cat a_head.html b_body.html c_engine.js d_hero.js e_mobs.js f_data.js g_game.js h_ui.js > ../index.html`). Bản cũ lưu ở `src_v1/`.
 - Đã test headless (lớp Băng mới chơi, Cung Thủ lv32 map 2 + boss): không lỗi. Chưa đo FPS trên điện thoại thật, chưa cân bằng chi tiết.
+- Sửa: game "đứng" sau khi hồi sinh (bộ đếm `S.dead` âm vẫn bị coi là chết).
+- Điều khiển: bỏ joystick → chạm/nhấp nền để đi (giữ & kéo để lái), chạm quái để đánh; vòng sáng đánh dấu điểm chạm. WASD vẫn dùng được trên PC.
+- Tìm đường: lưới A* 0,5m (`buildNav/findPath/navDir` trong g_game.js) dựng lại mỗi map, rút gọn đường bằng kiểm tra tầm nhìn; tự động và chạm-để-đi đều đi vòng đá/san hô. Mục tiêu không tới được bị bỏ qua 6 giây.
